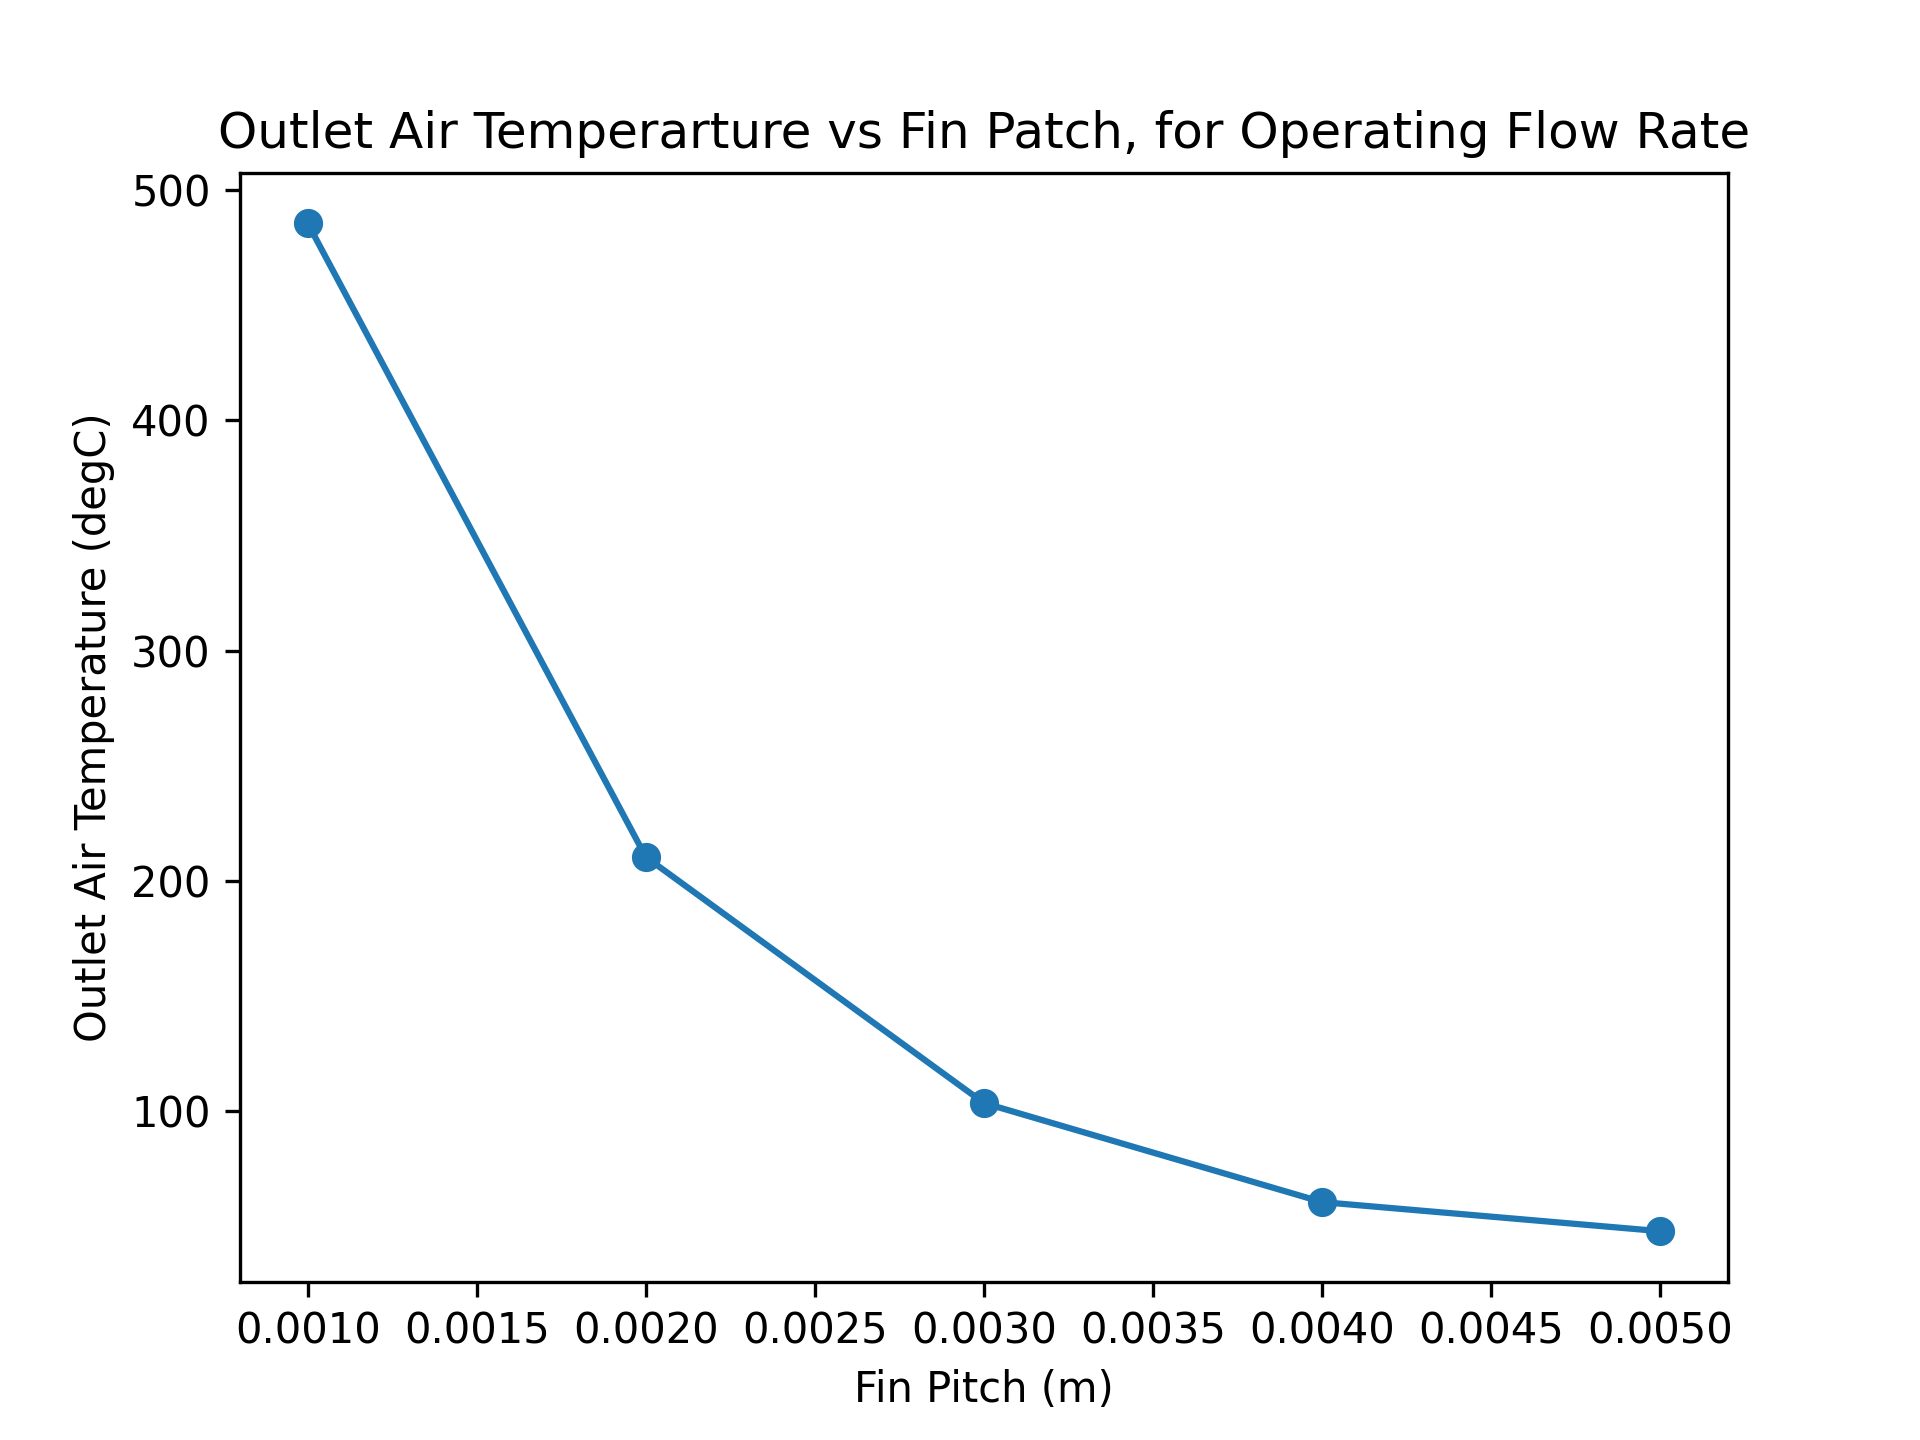
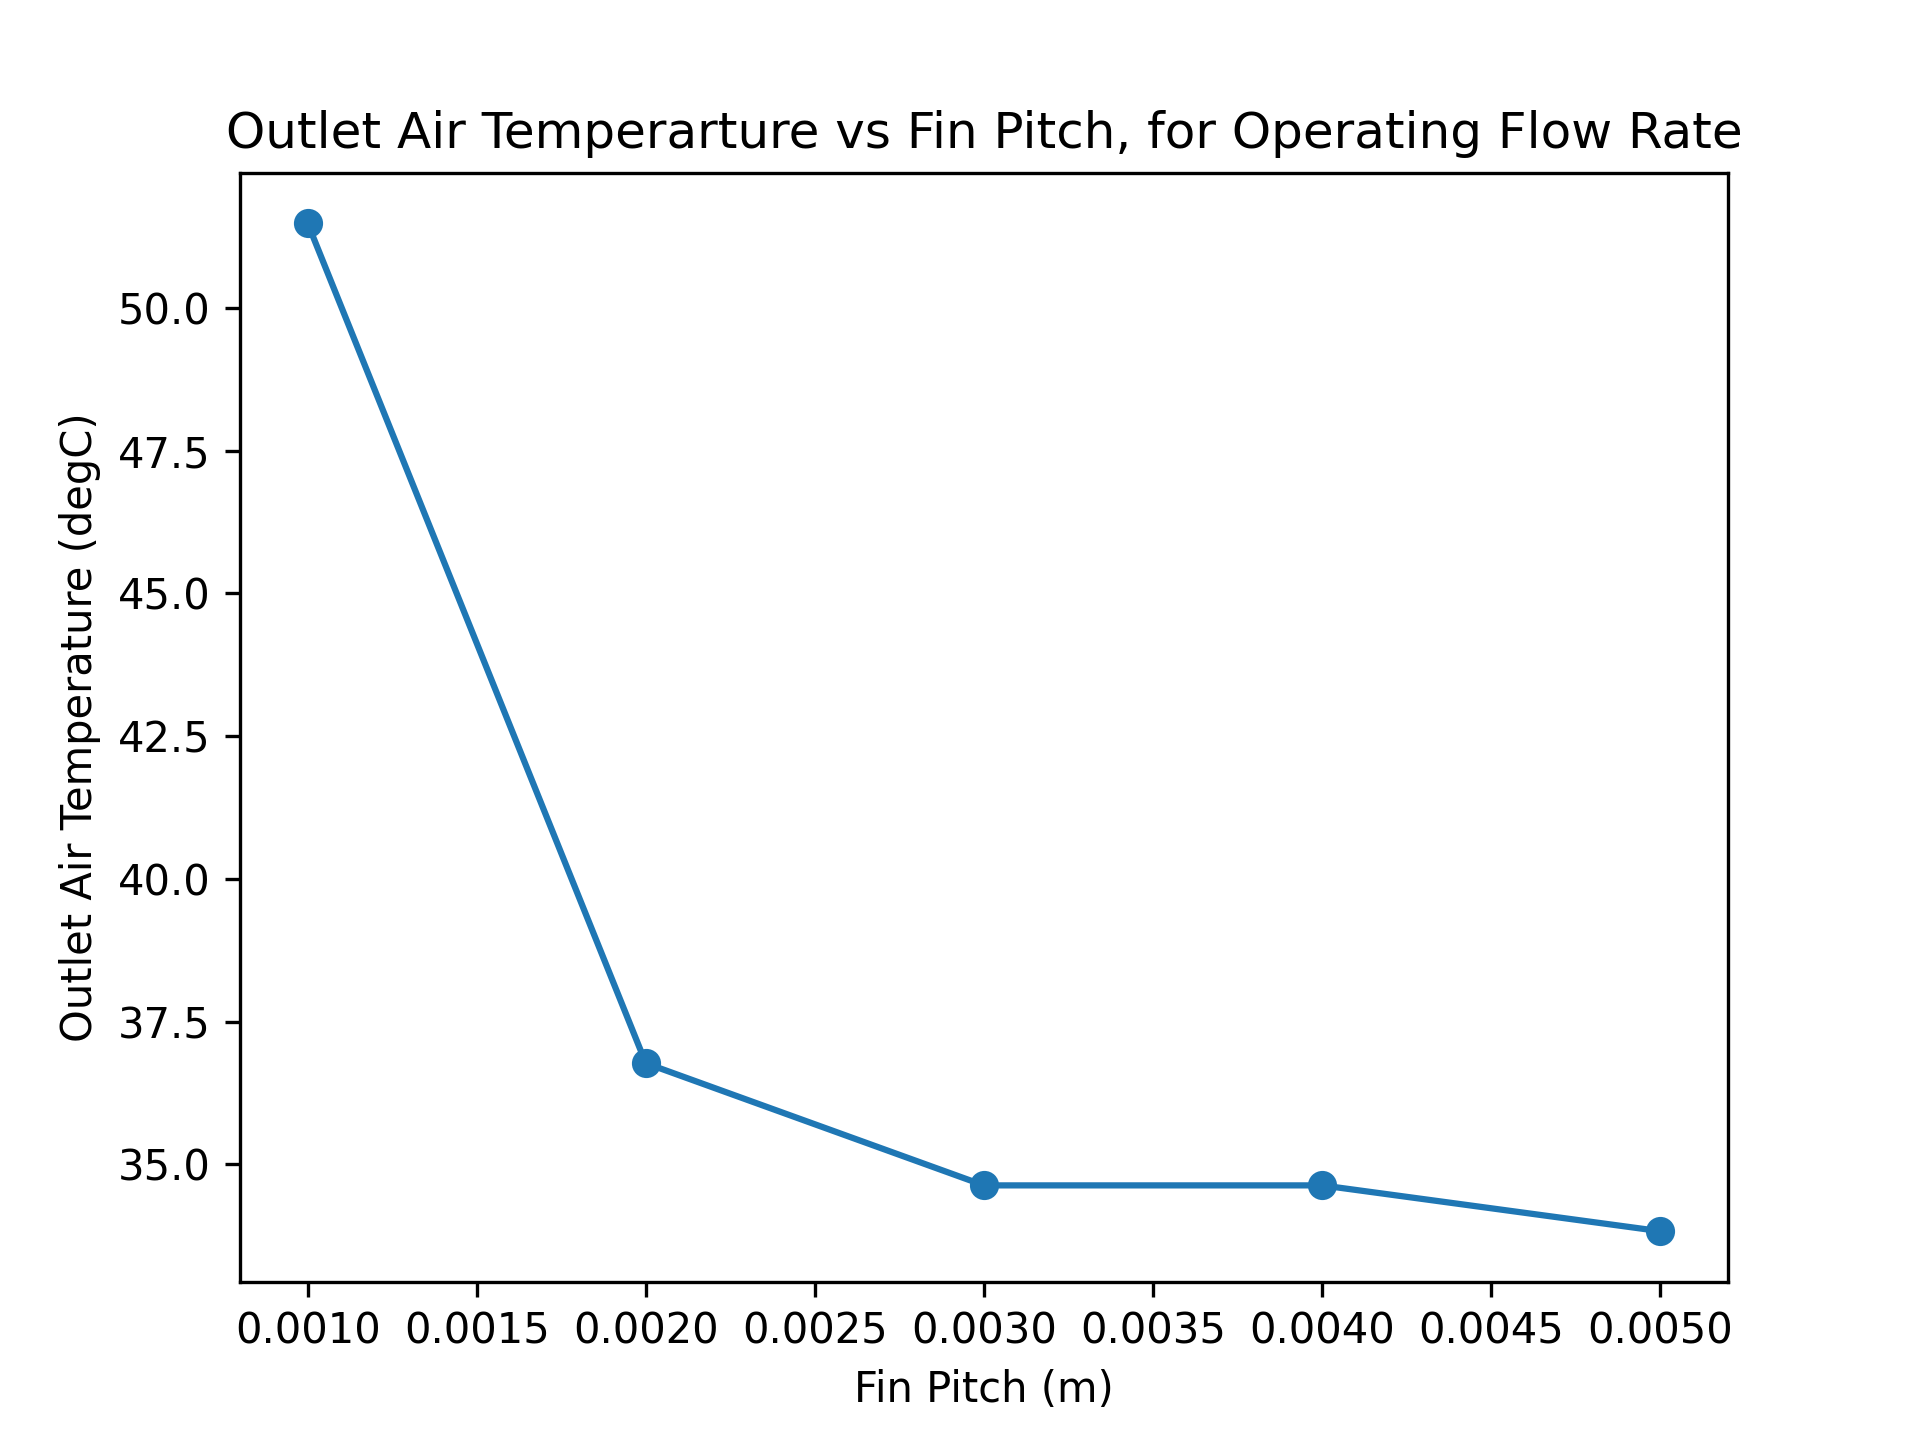
Minor Revisions

diff --git a/Homework_2.py b/Homework_2.py
@@ -55,6 +55,7 @@ def compute_results(pitch, flow):
     # print ('Gap: ', gap)
     # print ('Number of chan: ', n_chan)
     Re = rho * vel * Dh / mu
+    print (f'Pitch: {pitch}, Gap: {gap}, Num Chan: {n_chan}, Num Fins: {n_fins}, Re: {Re}')
     Nu = calculate_Nu(Re)
     h = Nu * k_air / Dh # Calculates the convective heat transfer coefficient
     fin_area = n_fins * 2 * height * length # Surface area per fin = height * length * 2 (2 sides). For all fins
@@ -91,7 +92,7 @@ def scenario_1():
 
     plt.figure()
     plt.plot(fin_pitch, Nu_all, marker='o')
-    plt.xlabel('Fin pitch (mm)')
+    plt.xlabel('Fin pitch (m)')
     plt.ylabel('Average Nusselt number per fin')
     plt.title('Scenario 1: Nu vs Fin Pitch (Q = 5 CFM)')
     plt.savefig('a2_s1_nu_vs_pitch.png', dpi=300)
@@ -99,7 +100,7 @@ def scenario_1():
 
     plt.figure()
     plt.plot(fin_pitch, hA_all, marker='o')
-    plt.xlabel('Fin pitch (mm)')
+    plt.xlabel('Fin pitch (m)')
     plt.ylabel('Overall Heat Transfer Coefficient (h*A)')
     plt.title('Scenario 1: Heat Transfer Coefficient vs Fin Pitch (Q = 5 CFM)')
     plt.savefig('a2_s1_hA_vs_pitch.png', dpi=300)
@@ -107,7 +108,7 @@ def scenario_1():
 
     plt.figure()
     plt.plot(fin_pitch, R_conv_all, marker='o')
-    plt.xlabel('Fin pitch (mm)')
+    plt.xlabel('Fin pitch (m)')
     plt.ylabel('Convective Thermal Resistance')
     plt.title('Scenario 1: Convective Thermal Resistance vs Fin Pitch (Q = 5 CFM)')
     plt.savefig('a2_s1_res_vs_pitch.png', dpi=300)
@@ -115,7 +116,7 @@ def scenario_1():
 
     plt.figure()
     plt.plot(fin_pitch, delta_p_all, marker='o')
-    plt.xlabel('Fin pitch (mm)')
+    plt.xlabel('Fin pitch (m)')
     plt.ylabel('Pressure Drop (Pascals)')
     plt.title('Scenario 1: Overall Pressure Drop vs Fin Pitch (Q = 5 CFM)')
     plt.savefig('a2_s1_deltaP_vs_pitch.png', dpi=300)
@@ -215,7 +216,7 @@ def scenario_3():
     plt.plot(fin_pitches, delta_T_all, marker = 'o')
     plt.xlabel('Fin Pitch (m)')
     plt.ylabel('Air Temperature Rise (degK)')
-    plt.title(f'Air Temperature Rise vs Fin Patch, for Operating Flow Rate')
+    plt.title(f'Air Temperature Rise vs Fin Pitch, for Operating Flow Rate')
     plt.savefig('a2_s3_pitch_vs_temprise.png', dpi=300)
     plt.close()
 
@@ -223,15 +224,15 @@ def scenario_3():
     plt.plot(fin_pitches, delta_P_all, marker = 'o')
     plt.xlabel('Fin Pitch (m)')
     plt.ylabel('Pressure Drop (Pascals)')
-    plt.title(f'Operating Pressure Drop vs Fin Patch, for Operating Flow Rate')
+    plt.title(f'Operating Pressure Drop vs Fin Pitch, for Operating Flow Rate')
     plt.savefig('a2_s3_pitch_vs_pressureDrop.png', dpi=300)
     plt.close()
 
     plt.figure()
-    plt.plot(fin_pitches, delta_P_all, marker = 'o')
+    plt.plot(fin_pitches, out_T_all, marker = 'o')
     plt.xlabel('Fin Pitch (m)')
     plt.ylabel('Outlet Air Temperature (degC)')
-    plt.title(f'Outlet Air Temperarture vs Fin Patch, for Operating Flow Rate')
+    plt.title(f'Outlet Air Temperarture vs Fin Pitch, for Operating Flow Rate')
     plt.savefig('a2_s3_pitch_vs_outAirTemp.png', dpi=300)
     plt.close()
 
